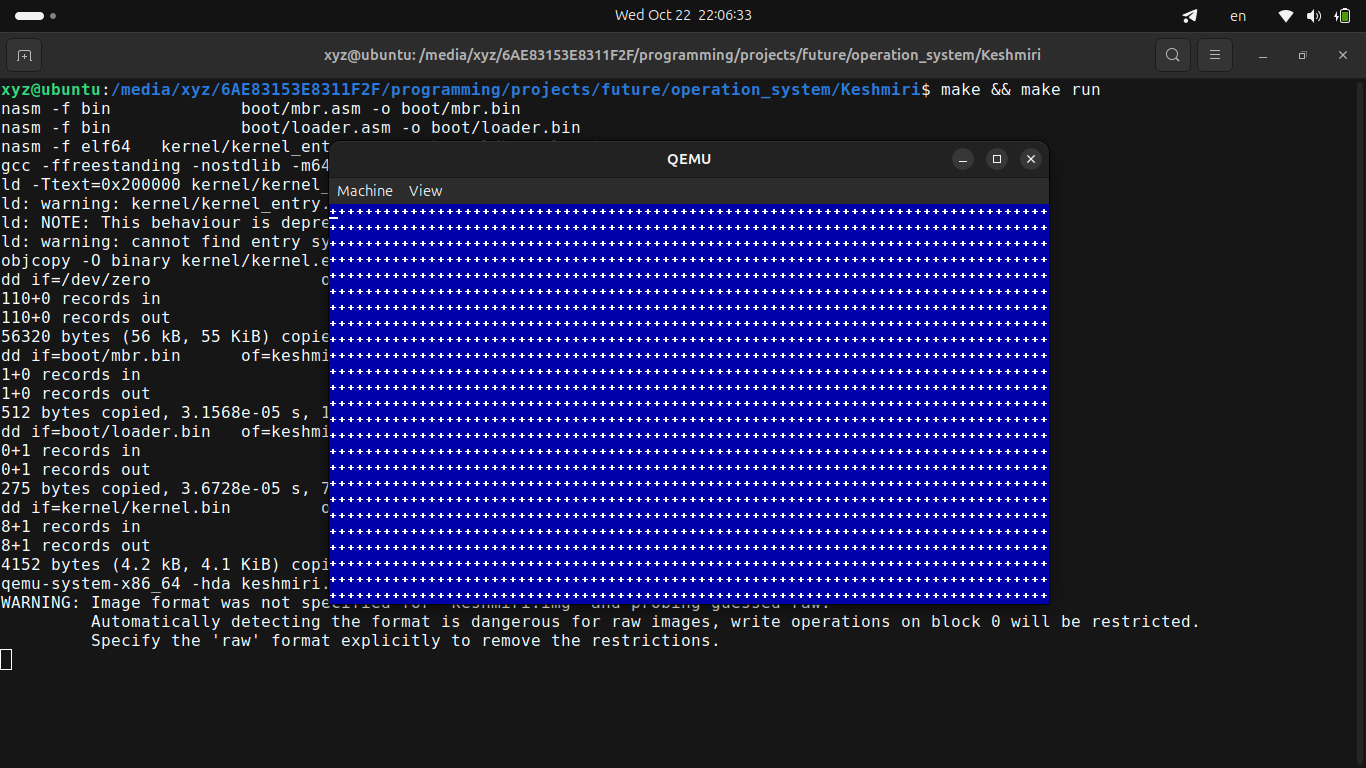
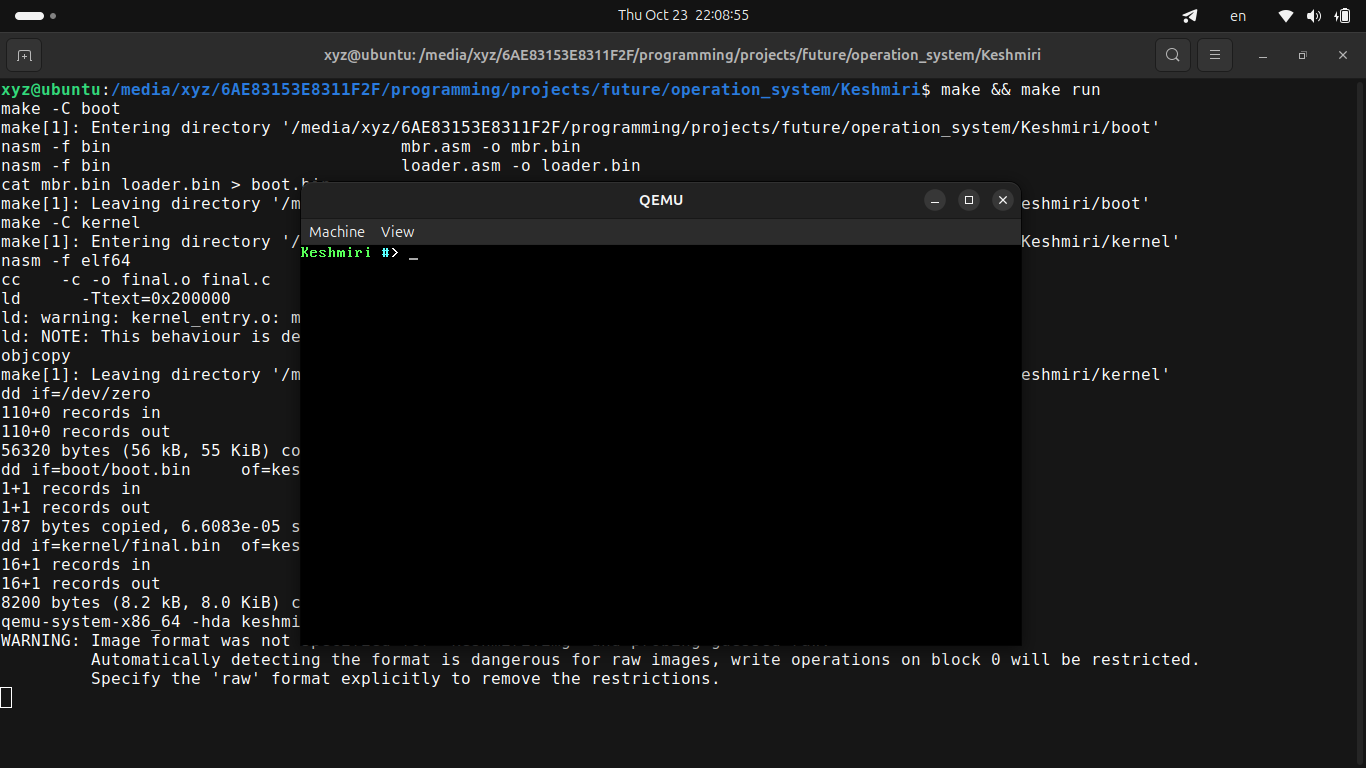
[8] - Add a graphics driver to control the display

diff --git a/drivers/graphics.h b/drivers/graphics.h
@@ -1,0 +1,84 @@
+#ifndef DRIVERS_GRAPHICS_H
+#define DRIVERS_GRAPHICS_H
+
+#include "ports.h"
+
+#include "../include/type.h"
+#include "../include/bool.h"
+#include "../include/symbols.h"
+
+#define VIDEO_MEMORY_ADDRESS                 0xB8000
+
+#define SCREEN_WIDTH                         0x50       // 80
+#define SCREEN_HEIGHT                        0x19       // 25
+
+#define REG_SCREEN_CTRL                      0x3D4
+#define REG_SCREEN_DATA                      0x3D5
+
+#define BACKGAROUNDE_COLOR_BLACK             0x00
+#define BACKGAROUNDE_COLOR_BLUE              0x10
+#define BACKGAROUNDE_COLOR_GREEN             0x20
+#define BACKGAROUNDE_COLOR_CYAN              0x30
+#define BACKGAROUNDE_COLOR_RED               0x40
+#define BACKGAROUNDE_COLOR_MAGENTA           0x50
+#define BACKGAROUNDE_COLOR_BROWN             0x60
+#define BACKGAROUNDE_COLOR_LIGHT_GRAY        0x70
+#define BACKGAROUNDE_COLOR_GRAY              0x80
+#define BACKGAROUNDE_COLOR_LIGHT_BLUE        0x90
+#define BACKGAROUNDE_COLOR_LIGHT_GREEN       0xA0
+#define BACKGAROUNDE_COLOR_LIGHT_CYAN        0xB0
+#define BACKGAROUNDE_COLOR_LIGHT_RED         0xC0
+#define BACKGAROUNDE_COLOR_LIGHT_MAGENTA     0xD0
+#define BACKGAROUNDE_COLOR_LIGHT_YELLOW      0xE0
+#define BACKGAROUNDE_COLOR_WHITE             0xF0
+
+#define SCREEN_BACKGAROUNDE_COLOR            BACKGAROUNDE_COLOR_BLACK
+
+#define TEXT_COLOR_BLACK                     0x00
+#define TEXT_COLOR_BLUE                      0x01
+#define TEXT_COLOR_GREEN                     0x02
+#define TEXT_COLOR_CYAN                      0x03
+#define TEXT_COLOR_RED                       0x04
+#define TEXT_COLOR_MAGENTA                   0x05
+#define TEXT_COLOR_BROWN                     0x06
+#define TEXT_COLOR_LIGHT_GRAY                0x07
+#define TEXT_COLOR_GRAY                      0x08
+#define TEXT_COLOR_LIGHT_BLUE                0x09
+#define TEXT_COLOR_LIGHT_GREEN               0x0A
+#define TEXT_COLOR_LIGHT_CYAN                0x0B
+#define TEXT_COLOR_LIGHT_RED                 0x0C
+#define TEXT_COLOR_LIGHT_MAGENTA             0x0D
+#define TEXT_COLOR_LIGHT_YELLOW              0x0E
+#define TEXT_COLOR_WHITE                     0x0F
+
+#define OPERATION_SYSTEM_NAME                "Keshmiri"
+
+#define OPERATION_SYSTEM_NAME_SIZE           ((sizeof(OPERATION_SYSTEM_NAME) / sizeof(uint8_t)) + 0x03)
+
+#define COMMAND_SIZE                         (SCREEN_WIDTH - OPERATION_SYSTEM_NAME_SIZE)
+
+
+uint8_t *video_memory = (uint8_t *) VIDEO_MEMORY_ADDRESS;
+
+uint32_t starting_point_of_command = 0;
+
+
+uint32_t get_cursor();
+
+void set_cursor(uint32_t input_cursor);
+
+uint32_t get_cursor_row();
+
+uint32_t get_cursor_column();
+
+void clear_screen();
+
+void print_character(uint8_t character, uint8_t color_character);
+
+void print_string(const uint8_t *string, uint8_t text_color);
+
+void print_operation_system_name();
+
+void move_cursor_to_new_line();
+
+#endif

diff --git a/drivers/graphics.c b/drivers/graphics.c
@@ -1,0 +1,95 @@
+#include "graphics.h"
+
+uint32_t get_cursor()
+{    
+    port_byte_output(REG_SCREEN_CTRL, 0x0e);
+    
+    uint32_t output_cursor = port_byte_input(REG_SCREEN_DATA) shift_left 8;
+    
+    port_byte_output(REG_SCREEN_CTRL, 0x0f);
+    
+    output_cursor += port_byte_input(REG_SCREEN_DATA);
+    
+    return output_cursor * 2;
+}
+
+void set_cursor(uint32_t input_cursor)
+{
+    input_cursor /= 2;
+    
+    port_byte_output(REG_SCREEN_CTRL, 0x0e);
+    
+    port_byte_output(REG_SCREEN_DATA, (uint8_t) ((input_cursor shift_right 0x08) bit_and 0xff));
+
+    port_byte_output(REG_SCREEN_CTRL, 0x0f);
+    
+    port_byte_output(REG_SCREEN_DATA, (uint8_t) (input_cursor bit_and 0xff));
+}
+
+uint32_t get_cursor_row()
+{
+    uint32_t cursor = get_cursor();
+
+    return cursor / (SCREEN_WIDTH * 2);
+}
+
+uint32_t get_cursor_column()
+{
+    uint32_t cursor = get_cursor();
+
+    return cursor % (SCREEN_WIDTH * 2);
+}
+
+void clear_screen()
+{
+    for (uint32_t i = 0; i < (SCREEN_WIDTH * SCREEN_HEIGHT * 2); i += 2)
+    {
+        *(video_memory + i) = BACKGAROUNDE_COLOR_BLACK + TEXT_COLOR_BLACK;
+    }
+
+    set_cursor(0);
+}
+
+void print_character(uint8_t character, uint8_t color_character)
+{
+    uint32_t cursor = get_cursor();
+
+    *(video_memory + cursor) = character;
+    *(video_memory + cursor + 1) = SCREEN_BACKGAROUNDE_COLOR + color_character;
+
+    set_cursor(cursor + 2);
+}
+
+
+void print_string(const uint8_t *string, uint8_t text_color)
+{
+    uint32_t index = 0;
+
+    while (string[index] != 0)
+    {
+        print_character(string[index], text_color);
+
+        ++index;
+    }
+}
+
+void print_operation_system_name()
+{
+    print_string(OPERATION_SYSTEM_NAME, TEXT_COLOR_LIGHT_GREEN);
+
+    print_character(' ', TEXT_COLOR_BLACK);
+    print_character('#', TEXT_COLOR_LIGHT_CYAN);
+    print_character('>', TEXT_COLOR_WHITE);
+    print_character(' ', TEXT_COLOR_BLACK);
+
+    uint32_t cursor = get_cursor();
+
+    starting_point_of_command = cursor;
+}
+
+void move_cursor_to_new_line()
+{
+    uint32_t cursor = get_cursor();
+
+    set_cursor((cursor / (SCREEN_WIDTH * 2) + 1) * (SCREEN_WIDTH * 2));
+}

diff --git a/include/type.h b/include/type.h
@@ -1,0 +1,20 @@
+#ifndef INCLUDE_TYPE_H
+#define INCLUDE_TYPE_H
+
+typedef signed char             int8_t;
+typedef unsigned char           uint8_t;
+
+typedef signed short int        int16_t;
+typedef unsigned short int      uint16_t;
+
+typedef signed int              int32_t;
+typedef unsigned int            uint32_t;
+
+typedef signed long int         int64_t;
+typedef unsigned long int       uint64_t;
+
+typedef float                   float32_t;
+typedef double                  float64_t;
+typedef long double             float128_t;
+
+#endif

diff --git a/include/symbols.h b/include/symbols.h
@@ -1,0 +1,23 @@
+#ifndef INCLUDE_SYMBOLS_H
+#define INCLUDE_SYMBOLS_H
+
+#define and                 &&
+#define and_equal           &=
+
+#define or                  ||
+#define or_equal            |=
+
+#define not                 !
+#define not_equal           !=
+
+#define xor                 ^
+#define xor_equal           ^=
+
+#define bit_and             &
+#define bit_or              |
+#define bit_complement      ~
+
+#define shift_right         >>
+#define shift_left          <<
+
+#endif

diff --git a/drivers/ports.c b/drivers/ports.c
@@ -1,0 +1,21 @@
+#include "ports.h"
+
+uint8_t port_byte_input(uint32_t port)
+{    
+    uint8_t result;
+
+    __asm__ volatile (
+
+        "in %%dx, %%al" : "=a" (result) : "d" (port)
+    );
+    
+    return result;
+}
+
+void port_byte_output(uint32_t port, uint8_t data)
+{    
+    __asm__ volatile (
+
+        "out %%al, %%dx" : : "a" (data), "d" (port)
+    );
+}

diff --git a/kernel/kernel.c b/kernel/kernel.c
@@ -1,10 +1,8 @@
+#include "../drivers/graphics.h"
+
 void main()
 {
-    char *video_memory = (char *) 0xb8000;
+    clear_screen();
 
-    for (int i = 0; i < (320 * 200 * 2); i += 2)
-    {
-        *(video_memory + i) = '+';
-        *(video_memory + i + 1) = 0x1f;
-    }
+    print_operation_system_name();
 }

diff --git a/drivers/ports.h b/drivers/ports.h
@@ -1,0 +1,10 @@
+#ifndef DRIVERS_PORTS_H
+#define DRIVERS_PORTS_H
+
+#include "../include/type.h"
+
+uint8_t port_byte_input(uint32_t port);
+
+void port_byte_output(uint32_t port, uint8_t data);
+
+#endif

diff --git a/include/bool.h b/include/bool.h
@@ -1,0 +1,8 @@
+#ifndef INCLUDE_BOOL_H
+#define INCLUDE_BOOL_H
+
+#define bool        _Bool
+#define true        1
+#define false       0
+
+#endif

diff --git a/kernel/final.c b/kernel/final.c
@@ -1,0 +1,3 @@
+#include "kernel.c"
+#include "../drivers/graphics.c"
+#include "../drivers/ports.c"
